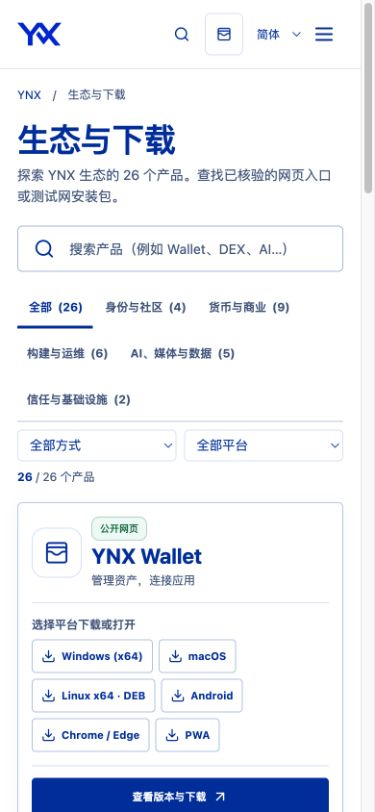
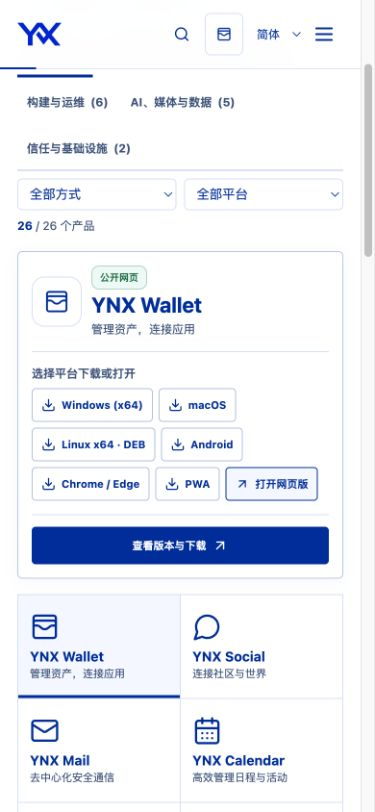
Place verified web entry alongside platform choices

diff --git a/src/pages/DownloadPage.jsx b/src/pages/DownloadPage.jsx
@@ -114,8 +114,8 @@ export function DownloadPage() {
 
       {selected ? <section className="downloadHubFeature" aria-label={`${selected.name} ${experience.choose}`} data-selected-product={selected.key}>
         <div className="downloadHubFeatureIdentity"><span className="downloadHubFeatureIcon"><selected.icon size={36} strokeWidth={1.7}/></span><div><span className={`appState ${selected.status}`}>{copy.statusLabels[selected.status]}</span><h2>{selected.name}</h2><p>{getDownloadTileSummary(locale, selected.key)}</p></div></div>
-        <div className="downloadHubFeatureChoices"><strong>{experience.choose}</strong>{featurePackages.length ? <div className="downloadHubPackageLinks">{featurePackages.map(([key, item]) => <a key={key} href={item.href} rel={item.external ? "noopener" : undefined} download={item.artifactPath || undefined} aria-label={`${selected.name} ${DOWNLOAD_LABELS[key] || key} ${copy.download}`}><Download size={15}/>{selected.key === "wallet" ? walletDownloadLabel(key, { ...(PRODUCT_UI_COPY[locale] || PRODUCT_UI_COPY.en), ...(WALLET_DOWNLOAD_COPY[locale] || WALLET_DOWNLOAD_COPY.en) }) : DOWNLOAD_LABELS[key] || key}</a>)}</div> : <p>{publicWeb ? experience.platformUnavailable : experience.noPublic}</p>}</div>
-        <div className="downloadHubFeatureActions"><a className="downloadHubPrimary" href={productSectionRoute(selected.route, "open-download")}>{experience.versions}<ArrowUpRight size={17}/></a>{publicWeb && <a className="downloadHubSecondary" href={publicWeb} rel="noopener">{experience.openWeb}<ArrowUpRight size={16}/></a>}</div>
+        <div className="downloadHubFeatureChoices"><strong>{experience.choose}</strong>{featurePackages.length || publicWeb ? <div className="downloadHubPackageLinks">{featurePackages.map(([key, item]) => <a key={key} href={item.href} rel={item.external ? "noopener" : undefined} download={item.artifactPath || undefined} aria-label={`${selected.name} ${DOWNLOAD_LABELS[key] || key} ${copy.download}`}><Download size={15}/>{selected.key === "wallet" ? walletDownloadLabel(key, { ...(PRODUCT_UI_COPY[locale] || PRODUCT_UI_COPY.en), ...(WALLET_DOWNLOAD_COPY[locale] || WALLET_DOWNLOAD_COPY.en) }) : DOWNLOAD_LABELS[key] || key}</a>)}{publicWeb && <a className="downloadHubWebLink" href={publicWeb} rel="noopener" aria-label={`${selected.name} ${experience.openWeb}`}><ArrowUpRight size={15}/>{experience.openWeb}</a>}</div> : <p>{experience.noPublic}</p>}</div>
+        <div className="downloadHubFeatureActions"><a className="downloadHubPrimary" href={productSectionRoute(selected.route, "open-download")}>{experience.versions}<ArrowUpRight size={17}/></a></div>
       </section> : <section className="downloadHubNoResults"><Search size={25}/><h2>{experience.empty}</h2><p>{experience.selectHint}</p><button type="button" onClick={clearFilters}>{experience.clear}</button></section>}
 
       <section className="downloadHubGrid" aria-label={experience.title}>

diff --git a/src/pages/DownloadPage.css b/src/pages/DownloadPage.css
@@ -32,6 +32,7 @@
 .downloadHubPackageLinks { display: flex; flex-wrap: wrap; gap: 6px; }
 .downloadHubPackageLinks a { min-height: 35px; display: inline-flex; align-items: center; justify-content: center; gap: 6px; padding: 7px 9px; border: 1px solid rgba(0,47,167,.3); border-radius: 4px; color: var(--blue); background: var(--surface); font-size: 11px; font-weight: 700; text-decoration: none; white-space: nowrap; }
 .downloadHubPackageLinks a:hover { border-color: var(--blue); background: var(--soft); }
+.downloadHubPackageLinks .downloadHubWebLink { border-color: var(--blue); color: var(--blue); background: var(--soft); }
 .downloadHubPackageLinks svg { flex: 0 0 auto; }
 .downloadHubFeatureActions { display: grid; gap: 7px; padding-inline-start: 16px; }
 .downloadHubFeatureActions a { min-height: 39px; display: flex; align-items: center; justify-content: center; gap: 6px; padding: 8px 9px; border: 1px solid var(--blue); border-radius: 4px; color: var(--blue); background: var(--surface); font-size: 11px; font-weight: 750; text-align: center; text-decoration: none; }

diff --git a/design-qa.md b/design-qa.md
@@ -12,7 +12,7 @@ Implementation captures: [desktop](evidence/download-hub-desktop.png) at 1435 ×
 - Layout and spacing: selected product begins immediately below discovery; 26 tiles fit the six-column desktop grid. At 1265 px, filters move below the category row instead of covering the final category. At 390 px, categories wrap visibly, filters and feature stack, and the grid becomes two columns.
 - Color, assets, icons: existing brand palette and Lucide icons are reused. The reference's package glyphs are replaced by the actual site's download glyph, keeping the product icon family consistent. No invented hero artwork, mock product imagery, or CSS illustration was added.
 - Content and release truth: the visual reference shows iOS as an available Wallet choice, but the live release registry does not authorize it. The implementation shows only six eligible existing package entries; unavailable files remain in the expandable safety/release detail rather than receiving a quick download action. Product availability still follows the public contract and Wallet file eligibility.
-- Interactions: category selection, free-text search, reset, and method filtering were exercised in the local browser. A Finance web entry appears, while a Finance package filter correctly produces an empty state. The final page shows 26 tiles, six eligible Wallet quick links, no document-width overflow, and no browser console errors.
+- Interactions: category selection, free-text search, reset, and method filtering were exercised in the local browser. A Finance web entry appears, while a Finance package filter correctly produces an empty state. Verified Web actions now sit beside eligible packages in the middle choice row, without a duplicate right-hand button; a Web-only Card selection displays its direct Web link and no false package placeholder. The final page shows 26 tiles, six eligible Wallet package links plus its verified Web link, no document-width overflow, and no browser console errors.
 - Accessibility and RTL: controls have names, selected category/tile state uses `aria-pressed`, search has a label, and package links have product/platform labels. Arabic at 1265 px and 390 px showed translated categories, correct RTL order, and no document-width overflow. Existing global focus and contrast tests remain green.
 
 Known boundary: this QA validates the local website surface and current registry-driven links. It does not certify installed-platform behavior, an official Finance Sandbox session, or a newly published Wallet binary.
